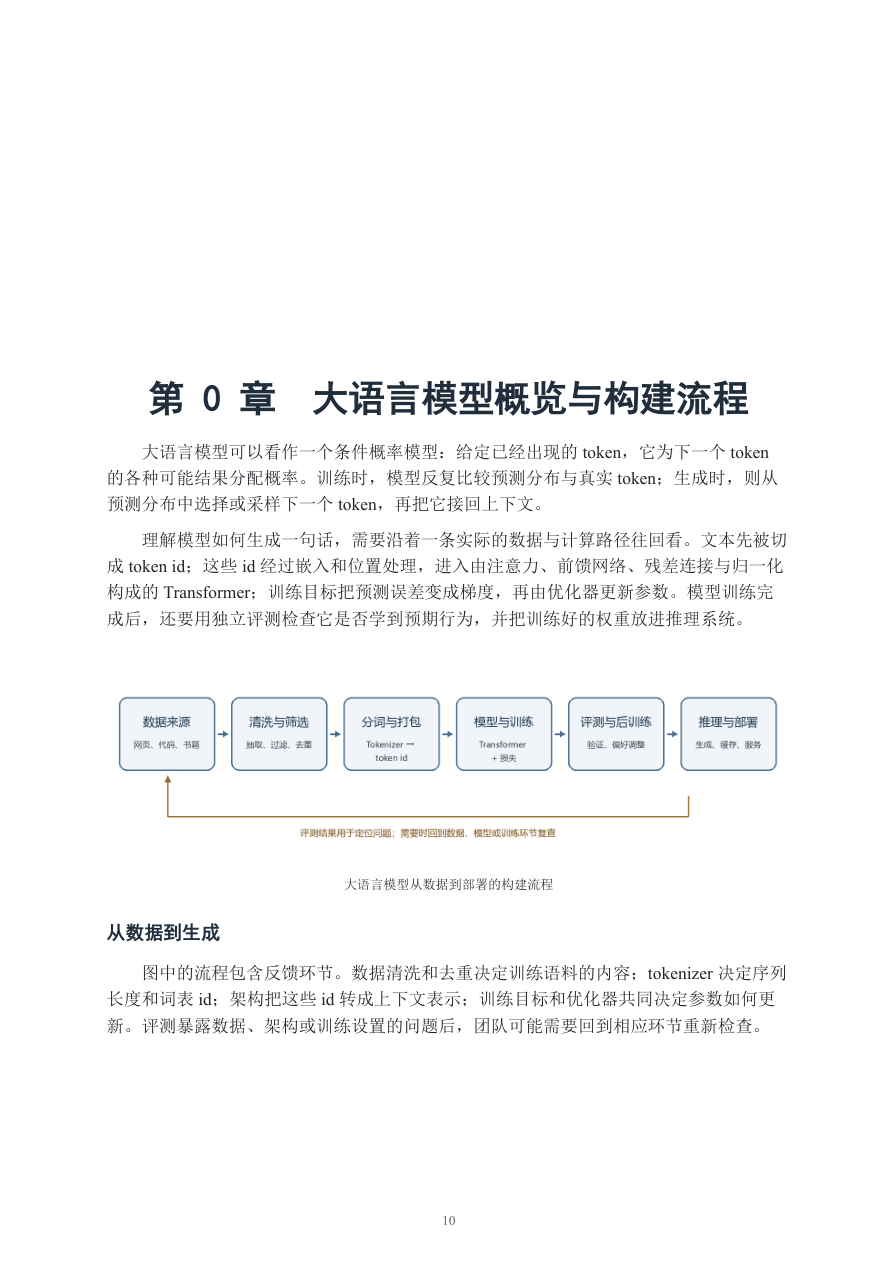
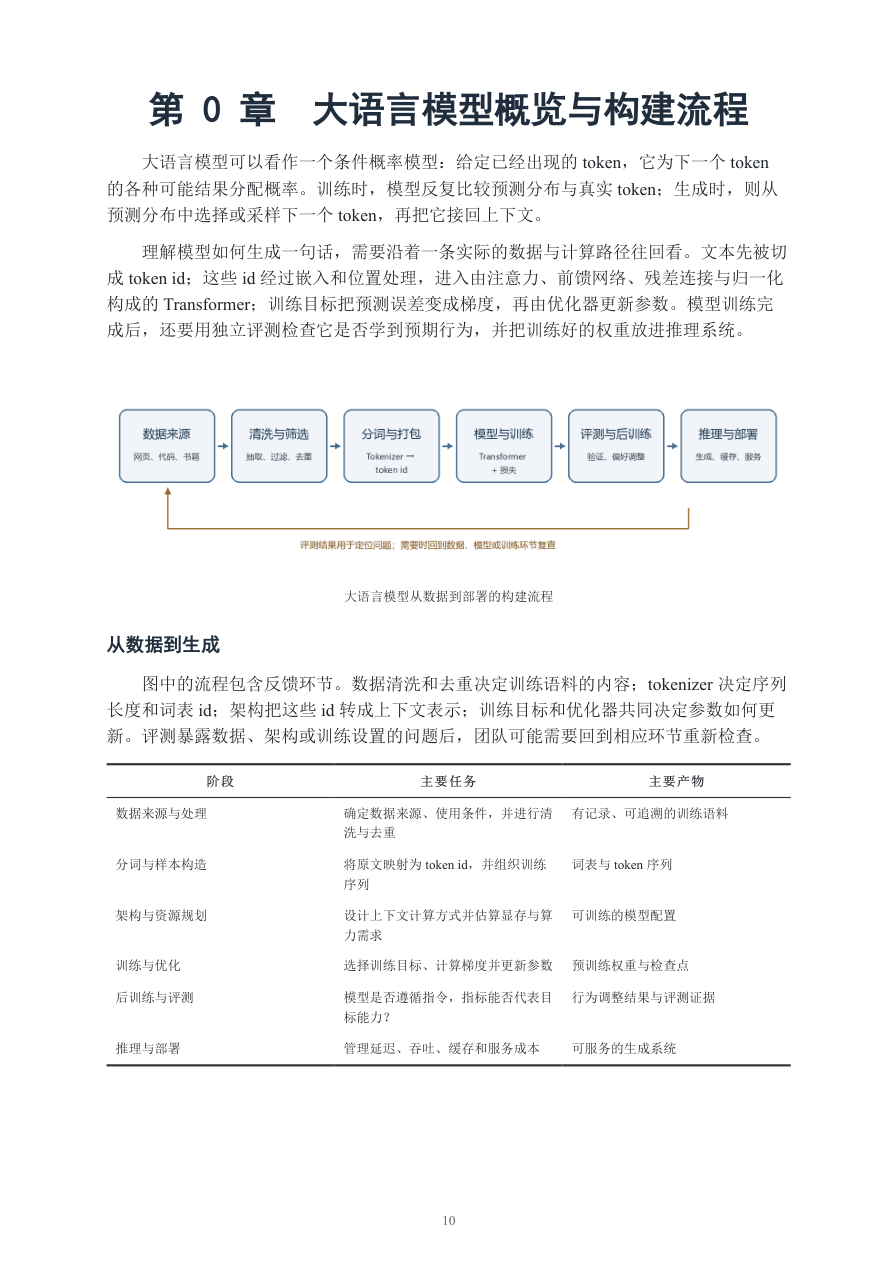
Refresh CS336 README page preview

Changed region(s): [[0.1209, 0.0618, 0.8768, 0.8337]]

diff --git a/README.md b/README.md
@@ -8,7 +8,7 @@
 
 1. **递归自我改进：概念、方法与证据** — [下载合订本 PDF](./递归自我改进_合订本.pdf)（86 页）。从概念、系统表示与证据类型讲起，讨论模型训练、测试时扩展、脚手架、记忆和开放式自修改。源稿、资料、实验和构建代码位于 [`books/rsi_book/`](./books/rsi_book/)。
 2. **强化学习：从 Bandit 到 RLHF、RLVR 与 Agentic RL** — [下载合订本 PDF](./强化学习教材_合订本.pdf)（289 页）。从多臂老虎机、MDP、Bellman 理论和经典算法逐步进入深度强化学习、离线 RL 与语言模型后训练。正文、图表、来源和审校/复现实验材料位于 [`books/rl_textbook/`](./books/rl_textbook/)。
-3. **大语言模型从 0 构建** — [下载合订本 PDF](./大语言模型从0构建_合订本.pdf)（151 页）。按数据、分词、架构、算子、并行、训练规模、评测和后训练等环节组织。源稿、打印版式、插图、来源登记和构建入口位于 [`books/cs336_book/`](./books/cs336_book/)。[康奈尔批注版合订本](./editions/大语言模型从0构建_合订本.pdf)（153 页）在正文右侧留有笔记区。
+3. **大语言模型从 0 构建** — [下载合订本 PDF](./大语言模型从0构建_合订本.pdf)（150 页）。按数据、分词、架构、算子、并行、训练规模、评测和后训练等环节组织。源稿、打印版式、插图、来源登记和构建入口位于 [`books/cs336_book/`](./books/cs336_book/)。[康奈尔批注版合订本](./editions/大语言模型从0构建_合订本.pdf)（152 页）在正文右侧留有笔记区。
 
 ## 教材内页预览
 
